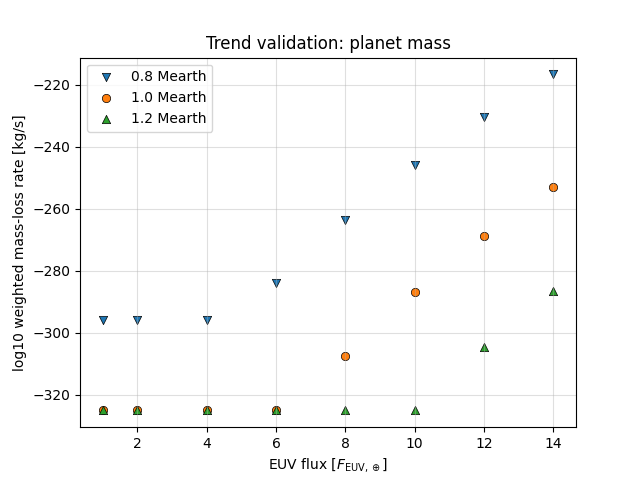
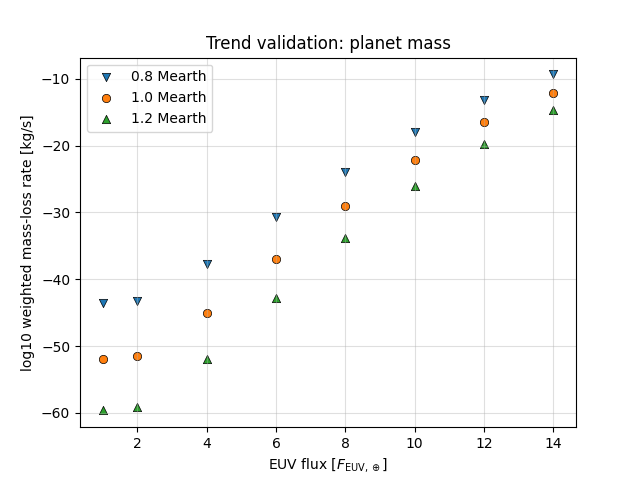
Changed scaling for T profile and deleted lower limit plotting

diff --git a/test_comparison.py b/test_comparison.py
@@ -35,10 +35,10 @@ def radius_from_mass(M):
     return (3 * M / (4 * pi * RHO_EARTH)) ** (1 / 3)
 
 def test_exobase_temperature(FEUV, X_CO2):
-    T_lower = 258.0
+    T_lower = 1500.0
 
     # purely qualitative: EUV heats, CO2 cools
-    heating = 10 * FEUV
+    heating = 15 * FEUV**2
     cooling = 50 * X_CO2
 
     return max(T_lower + heating - cooling, T_lower)
@@ -143,6 +143,7 @@ df = pd.DataFrame(rows)
 #print(df.head(20))
 
 import matplotlib.pyplot as plt
+#plt.style.use('science') 
 
 composition_values = sorted(df["CO2_fraction"].unique())
 
@@ -152,22 +153,13 @@ colors = {
     for i, x in enumerate(composition_values)
 }
 
-low_limit = -325 #added this because some values are so small they count as -inf 
-
-df["log10_Mdot_plot"] = np.where(
-    np.isfinite(df["log10_Mdot_weighted"]),
-    df["log10_Mdot_weighted"],
-    low_limit
-)
-
-
 # Fig. 4-like: loss vs FEUV for 1 Earth mass
 subset = df[df["Mplanet_Mearth"] == 1.0]
 
 plt.figure()
 for X_CO2 in sorted(subset["CO2_fraction"].unique()):
     s = subset[subset["CO2_fraction"] == X_CO2]
-    plt.scatter(s["FEUV"], s["log10_Mdot_plot"], marker="o", linewidths=0.5, edgecolor ='black',
+    plt.scatter(s["FEUV"], s["log10_Mdot_weighted"], marker="o", linewidths=0.5, edgecolor ='black',
                 color = colors[X_CO2], label=f"N2:{(1-X_CO2)*10**2:.0f}%, CO2:{X_CO2*10**2:.0f}%")
 
 plt.xlabel(r"EUV flux [$F_{\mathrm{EUV},\oplus}$]")
@@ -203,7 +195,7 @@ markers = ["v", "o", "^"]
 plt.figure()
 for i, M_factor in enumerate(sorted(subset_mass["Mplanet_Mearth"].unique())):
     s = subset_mass[subset_mass["Mplanet_Mearth"] == M_factor]
-    plt.scatter(s["FEUV"], s["log10_Mdot_plot"], marker=markers[i],linewidths=0.5, edgecolor ='black',
+    plt.scatter(s["FEUV"], s["log10_Mdot_weighted"], marker=markers[i],linewidths=0.5, edgecolor ='black',
                 label=f"{M_factor:.1f} Mearth")
 
 plt.xlabel(r"EUV flux [$F_{\mathrm{EUV},\oplus}$]")
